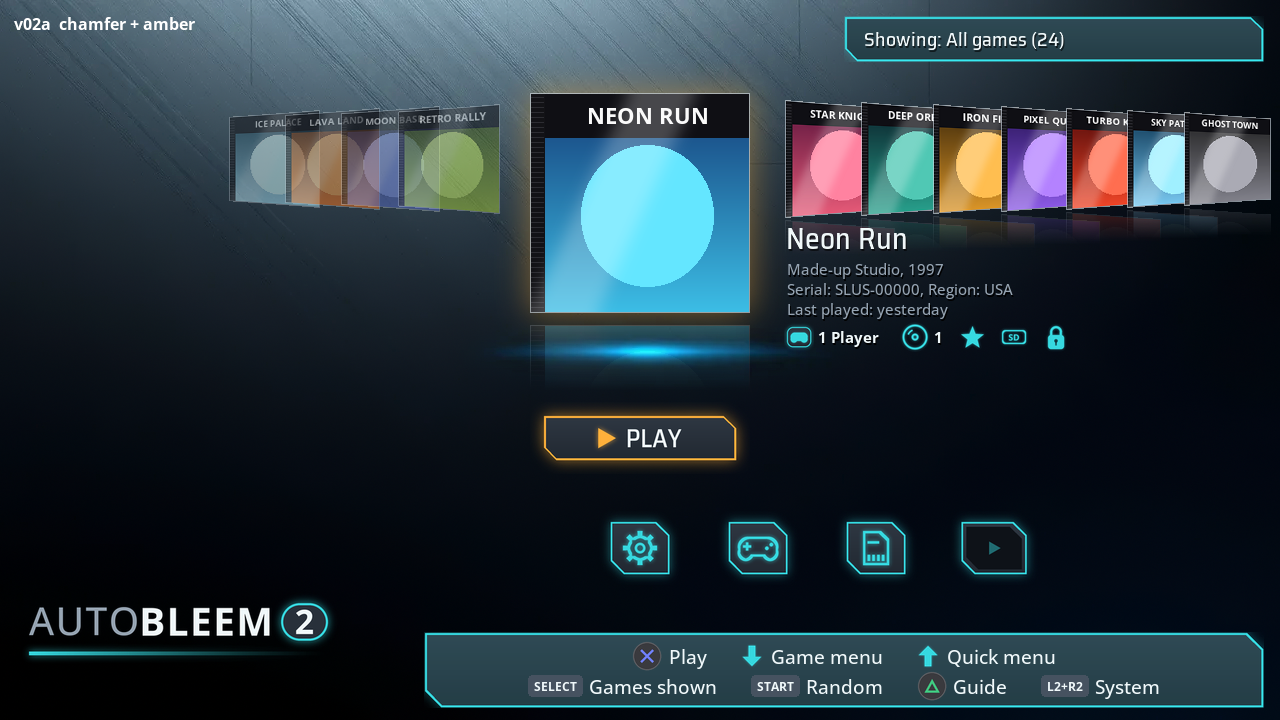
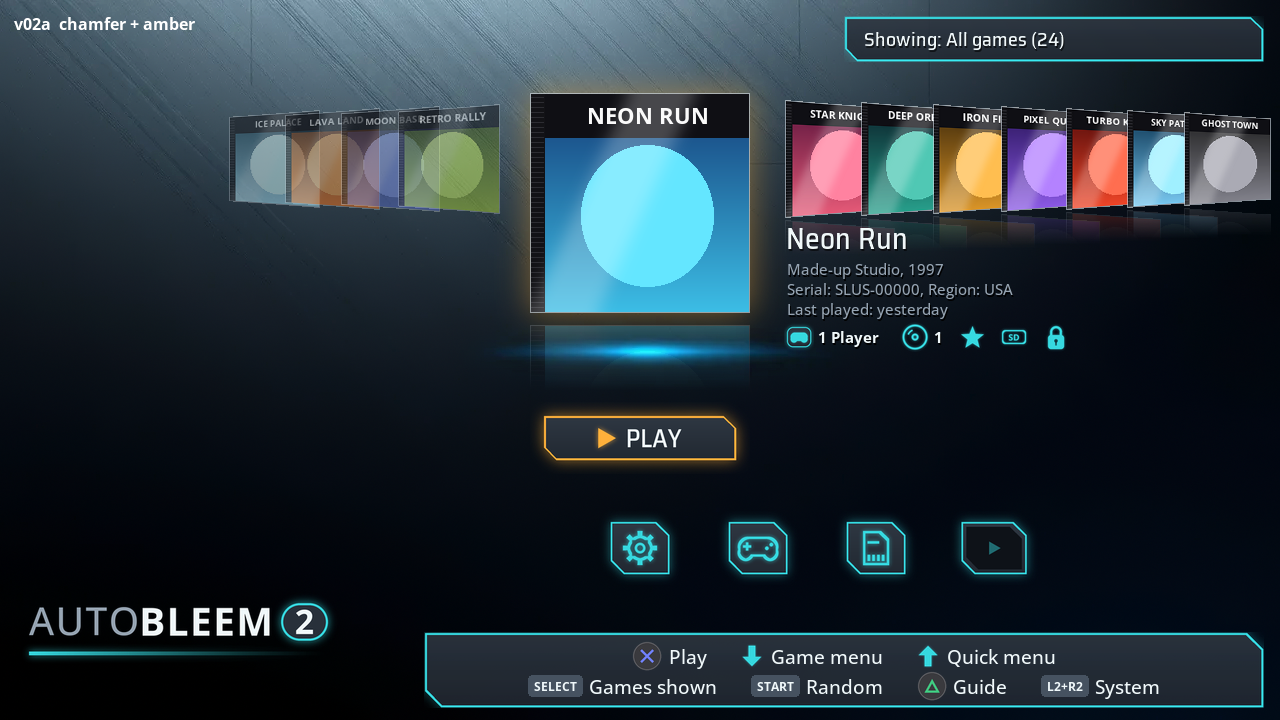
Direction A (CONSOLE-14): the theme's launcher images in the chosen v02b style; panels no longer show the stroke colour through their body

Changed region(s): [[0.3125, 0.8556, 1.0, 0.9778], [0.9062, 0.0306, 1.0, 0.0917]]

diff --git a/tools/make_direction_a_v2_assets.py b/tools/make_direction_a_v2_assets.py
@@ -1,0 +1,106 @@
+"""Direction A (CONSOLE-14): the theme's launcher images in the chosen v02b style (the owner, 2026-09-29).
+
+Cut corners (the memory card's shape), cyan lines, magenta for the focused item. Same file names and
+canvases as the default theme, written into design/direction-a/v2/ (not into Themes/ yet):
+  menu_settings/guide/memcard/resume.png  118x118
+  play_button.png  200x68  the chamfered frame alone (magenta - Play is the focused item)
+  play_text.png    200x68  the triangle and "PLAY" alone, same canvas
+  meta_panel.png   30x30   the pad glyph on a small chamfered tile
+  launcher_footer.png 1280x88  a chamfered panel behind the hint bar (hintBar 360,632 900x56 -> the
+                   panel spans x 348..1268 of the strip)
+  on.png / off.png 60x30   the classic UI's switch, chamfered, "on" in cyan
+plus a preview on the background.
+Run: python tools/make_direction_a_v2_assets.py
+"""
+import os
+import sys
+
+from PIL import Image, ImageDraw, ImageFont
+
+sys.path.insert(0, os.path.dirname(os.path.abspath(__file__)))
+import make_direction_a_icons as ic  # noqa: E402
+import make_direction_a_variants as va  # noqa: E402
+
+V = va.VARIANTS["b"]
+OUT = os.path.join(va.A, "v2")
+LAUNCHER = os.path.normpath(os.path.join(va.REPO, "..", "..", "..", "repos", "autobleem"))
+
+
+def play_parts():
+    w, h = 200, 68
+    box = (12, 12, 188, 56)
+    s = va.SS
+    btn = va.frame(w, h, box, V, edge=V["focus"], stroke=2, glow_px=6, glow_a=0.6).resize((w, h), Image.LANCZOS)
+    size = (w * s, h * s)
+    txt = Image.new("RGBA", size, (0, 0, 0, 0))
+    f = ImageFont.truetype(V["heading"], 25 * s)
+    tw = f.getbbox("PLAY", anchor="lm")
+    tw = (tw[2] - tw[0]) / s
+    tri_h, gap = 19, 9
+    gx = (box[0] + box[2]) / 2 - (tri_h * 0.87 + gap + tw) / 2
+    cy = (box[1] + box[3]) / 2
+    tri = Image.new("L", size, 0)
+    ImageDraw.Draw(tri).polygon([(gx * s, (cy - tri_h / 2) * s), (gx * s, (cy + tri_h / 2) * s),
+                                 ((gx + tri_h * 0.87) * s, cy * s)], fill=255)
+    txt = va.lines(txt, tri, V["focus"], V)
+    ImageDraw.Draw(txt).text(((gx + tri_h * 0.87 + gap) * s, cy * s), "PLAY", font=f, fill=va.WHITE + (255,),
+                             anchor="lm")
+    return btn, txt.resize((w, h), Image.LANCZOS)
+
+
+def meta_panel():
+    base = va.frame(30, 30, (3, 5, 27, 25), V, stroke=1, glow_px=2, glow_a=0.6)
+    p = ic.pad_mask(30, 30, 15, 15.5, 17, 10)
+    return va.lines(base, p, V["line"], V, glow_px=1, glow_a=0.6).resize((30, 30), Image.LANCZOS)
+
+
+def footer():
+    w, h = 1280, 88
+    return va.frame(w, h, (348, 6, 1268, 84), V, stroke=2, body_alpha=225, glow_px=5, glow_a=0.35,
+                    ss=2).resize((w, h), Image.LANCZOS)
+
+
+def switch(on):
+    w, h = 60, 30
+    box = (6, 7, 54, 23)
+    edge = V["line"] if on else (110, 124, 138)
+    base = va.frame(w, h, box, V if on else dict(V, glow=0), edge=edge, stroke=1.5)
+    s = va.SS
+    if on:
+        fill = va.shape_mask(w, h, box, V["shape"], inset=3)
+        base = va.lines(base, fill, V["line"], dict(V, glow=0))
+    kx = 45 if on else 15
+    knob = Image.new("L", base.size, 0)
+    c = 3
+    x0, x1, y0, y1 = (kx - 7) * s, (kx + 7) * s, 10 * s, 20 * s
+    ImageDraw.Draw(knob).polygon([(x0, y0), (x1 - c * s, y0), (x1, y0 + c * s), (x1, y1), (x0 + c * s, y1),
+                                  (x0, y1 - c * s)], fill=255)
+    base = Image.alpha_composite(base, va.solid(base.size, (240, 248, 250) if on else (150, 162, 175), knob))
+    return base.resize((w, h), Image.LANCZOS)
+
+
+def main():
+    os.makedirs(OUT, exist_ok=True)
+    files = {f"menu_{k}": va.menu_icon(k, V) for k in ("settings", "guide", "memcard", "resume")}
+    files["play_button"], files["play_text"] = play_parts()
+    files["meta_panel"] = meta_panel()
+    files["launcher_footer"] = footer()
+    files["on"], files["off"] = switch(True), switch(False)
+    for n, im in files.items():
+        im.save(os.path.join(OUT, n + ".png"))
+    # preview: everything on the background at its screen spot
+    scr = Image.open(os.path.join(va.A, "bg-direction-a-01-smooth.png")).convert("RGBA").resize((1280, 720))
+    scr.alpha_composite(files["launcher_footer"], (0, 632))
+    scr.alpha_composite(files["play_button"], (540, 400))
+    scr.alpha_composite(files["play_text"], (540, 400))
+    for k, n in enumerate(("settings", "guide", "memcard", "resume")):
+        scr.alpha_composite(files[f"menu_{n}"], (400 + k * 130, 480))
+    scr.alpha_composite(files["meta_panel"], (960, 420))
+    scr.alpha_composite(files["on"], (1010, 420))
+    scr.alpha_composite(files["off"], (1080, 420))
+    scr.convert("RGB").save(os.path.join(OUT, "preview-v2.png"))
+    print("written:", OUT)
+
+
+if __name__ == "__main__":
+    main()

diff --git a/tools/make_direction_a_variants.py b/tools/make_direction_a_variants.py
@@ -75,10 +75,12 @@ def frame(w, h, box, v, edge=None, stroke=2, body_alpha=255, glow_px=6, glow_a=0
     size = (w * ss, h * ss)
     m = shape_mask(w, h, box, v["shape"], ss=ss)
     out = Image.new("RGBA", size, (0, 0, 0, 0))
+    # the inside, so a see-through body shows the background and not the stroke's colour or the glow
+    inner = shape_mask(w, h, box, v["shape"], inset=stroke if v["shape"] != "round-small" else 1, ss=ss)
     if v["glow"] > 0:
         g = m.filter(ImageFilter.GaussianBlur(glow_px * ss)).point(lambda p: int(min(255, p * glow_a * v["glow"])))
-        out = Image.alpha_composite(out, solid(size, edge, g))
-    out = Image.alpha_composite(out, solid(size, edge, m))
+        out = Image.alpha_composite(out, solid(size, edge, ImageChops.subtract(g, inner)))
+    out = Image.alpha_composite(out, solid(size, edge, ImageChops.subtract(m, inner)))
     if v["shape"] == "round-small":  # frosted: lighter, a little see-through
         top, bot = (58, 66, 78), (36, 42, 52)
     else:
@@ -89,7 +91,6 @@ def frame(w, h, box, v, edge=None, stroke=2, body_alpha=255, glow_px=6, glow_a=0
     for y in range(size[1]):
         t = min(1.0, max(0.0, (y - y0) / max(1, y1 - y0)))
         bd.line([(0, y), (size[0], y)], fill=tuple(round(top[k] + (bot[k] - top[k]) * t) for k in range(3)) + (255,))
-    inner = shape_mask(w, h, box, v["shape"], inset=stroke if v["shape"] != "round-small" else 1, ss=ss)
     body.putalpha(inner.point(lambda p: p * body_alpha // 255))
     return Image.alpha_composite(out, body)
 
